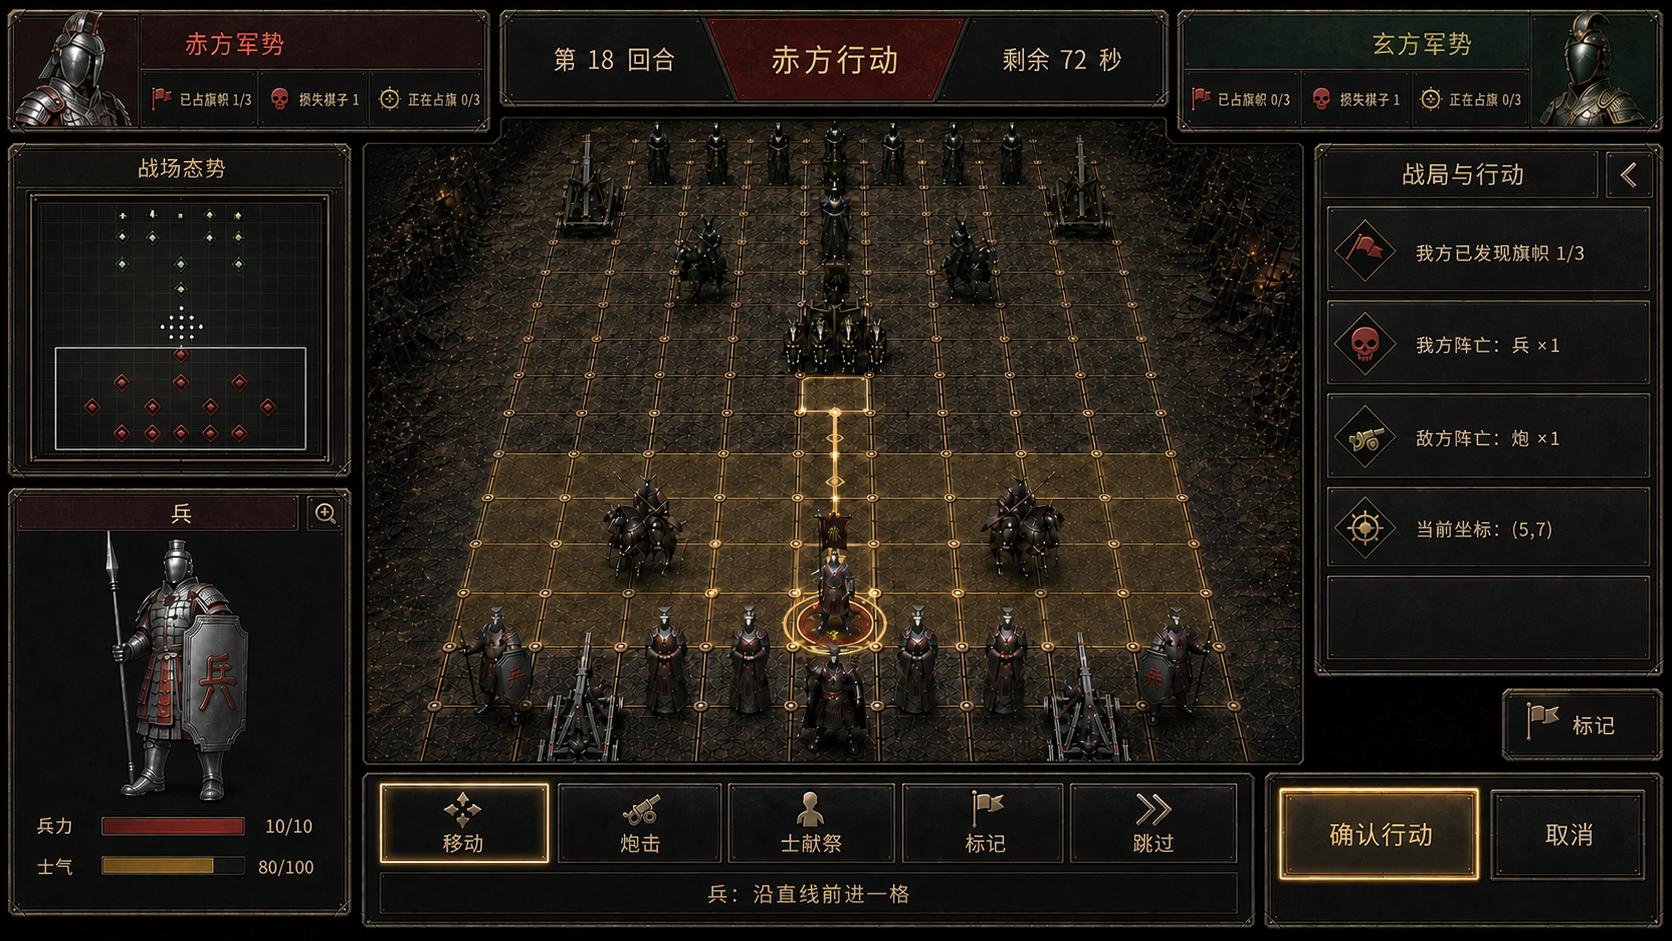
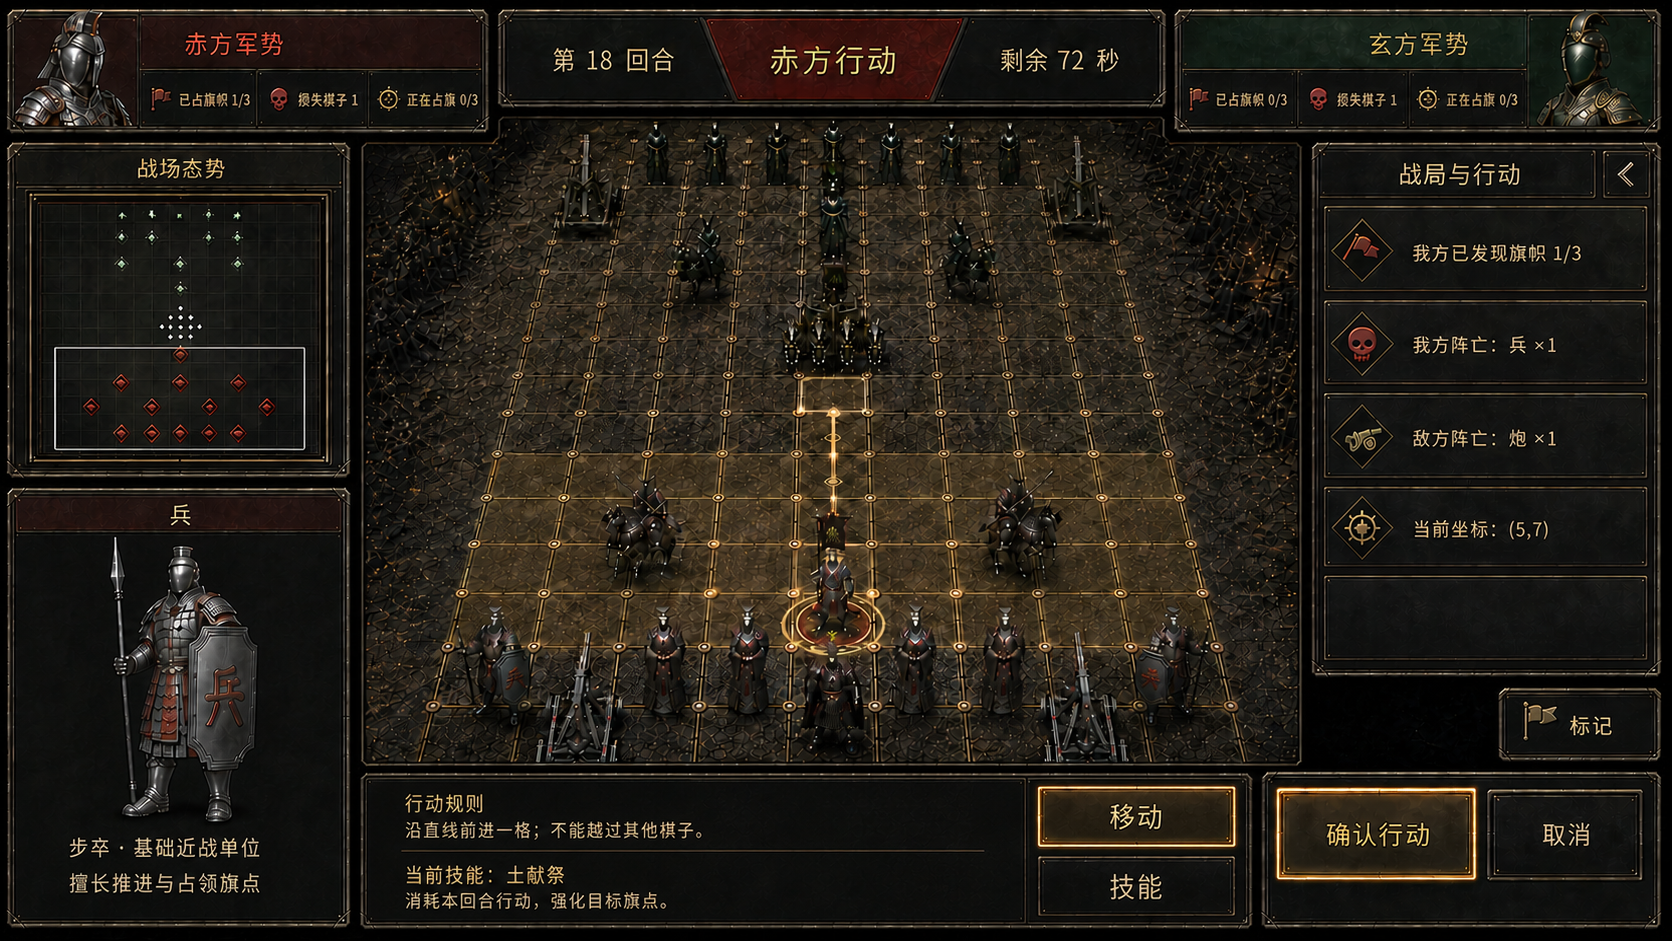
feat: 优化联机对局棋子信息与行动面板

diff --git a/docs/ui/multiplayer-match-hud-ux-reference-v2.md b/docs/ui/multiplayer-match-hud-ux-reference-v2.md
@@ -15,7 +15,9 @@
 - 删除香盘、计时香、回合香、香炉、竖香、灰盘及其所有计时语义。
 - 区域 02 `TurnStatusBar` 是唯一回合／行动方／剩余时间入口。
 - 区域 01 与 03 的头像区下方各显示三项公开信息：`已占旗帜`、`损失棋子`、`正在占旗 0/3`。
+- 区域 05 只显示棋子名称、全身立绘和两行身份／定位简介；不显示兵力、士气、属性条、数值或放大按钮。
 - 区域 07 的第四行显示当前选中棋子的公开坐标，V2 示例为`当前坐标：(5,7)`；第五行保留为空槽。
+- 区域 09 左侧只显示当前棋子的行动规则与技能简述，右侧只保留上下排列的`移动 / 技能`两个模式按钮。
 - 旧版`兵 / 炮 / 旗 / 损`紧凑统计行不再使用。
 - 面板轮廓必须闭合、互不重叠，装饰与阴影不得跨出区域边界，为紫幕拆分保留干净轮廓。
 
@@ -27,21 +29,21 @@
 | 02 回合状态 | `第 18 回合`、`赤方行动`、`剩余 72 秒` |
 | 03 玄方军势 | `已占旗帜 0/3`、`损失棋子 1`、`正在占旗 0/3` |
 | 04 战场态势 | 观察者安全标记、镜头框、纵向小地图 |
-| 05 单位信息 | `兵`、`兵力 10/10`、`士气 80/100` |
+| 05 单位信息 | `兵`、全身立绘、`步卒·基础近战单位 / 擅长推进与占领旗点`；无数值属性与放大按钮 |
 | 06 主棋盘 | 精确感 `9×24` 棋盘、红兵选中、一步路径与合法点 |
 | 07 战局与行动 | 已发现旗帜、双方阵亡三条公开事件、`当前坐标：(5,7)`，另留一个空槽 |
 | 08 标记工具 | 本地私有`标记`入口 |
-| 09 行动模式 | `移动 / 炮击 / 士献祭 / 标记 / 跳过`与单位说明 |
+| 09 行动模式 | 左侧为`行动规则 / 当前技能：土献祭`简述；右侧为上下排列的`移动 / 技能`按钮 |
 | 10 确认区 | 主操作`确认行动`与次操作`取消` |
 
 ## 确认后的紫幕生产计划
 
 本轮未执行以下工作：
 
-1. 分别为军势框、回合栏、小地图框、单位卡、战局抽屉、行动栏、确认区和按钮状态生成纯紫背景源图。
+1. 分别为军势框、回合栏、小地图框、单位卡、战局抽屉、规则／技能说明栏、确认区和按钮状态生成纯紫背景源图。
 2. 将紫幕源图抠成透明 PNG，并检查边缘残紫、孔洞、半透明阴影和连通域碎片。
 3. 面板框制作九宫格；按钮至少产出 Normal / Hover / Pressed / Disabled / Focus 状态。
-4. 头像、图标、面板框、按钮底板分开生产；区域 06 的棋盘继续由正式运行时场景渲染，不作为 HUD 紫幕贴图生成。
+4. 头像、棋子立绘、图标、面板框、按钮底板分开生产；区域 05 不制作属性条或放大按钮，区域 09 只制作`移动 / 技能`两类模式按钮；区域 06 的棋盘继续由正式运行时场景渲染，不作为 HUD 紫幕贴图生成。
 5. 所有动态文字、数值、进度和事件内容继续使用 Godot 预置 `Label / ProgressBar / TextureRect` 组合，不烘焙进面板 PNG。
 
 建议紫幕源统一使用项目既有高饱和纯紫背景规范，并为每个资产留足安全边距；实际色值、抠图阈值和输出目录在效果图获批后再绑定到现有美术脚本与 manifest。
@@ -55,6 +57,7 @@ Input images: Image 1 is the strict ten-region geometry; Image 2 is the visual a
 Primary request: rebuild the full-screen match HUD with Image 1 geometry and Image 2 dark iron / oxidized bronze / terracotta-warrior style.
 Critical removal invariant: remove every incense tray, plate, stick, turn incense, timing incense, burner, vertical incense and ash ornament. Turn and timing information exists only in the top TurnStatusBar.
 Force summaries: under each faction portrait show exactly three public cells: captured flags, lost pieces, and current capture progress 0/3. Remove the old soldier/cannon/flag/loss summary.
-Preserve: round 18, red turn, 72 seconds, observer-safe minimap, selected infantry 10/10 and morale 80/100, three public event rows, current-coordinate row “当前坐标：(5,7)”, five action modes, infantry movement description, confirm and cancel.
+Preserve: round 18, red turn, 72 seconds, observer-safe minimap, selected infantry name/full-body art with a short role introduction and no numeric stats or magnify control, three public event rows, current-coordinate row “当前坐标：(5,7)”, and separate confirm/cancel controls.
+Bottom action panel: left side contains only brief current-piece action rules and skill description; right side contains exactly two vertically stacked mode buttons, “移动” above “技能”.
 Production readiness: all panel silhouettes closed, opaque and confined to their regions; no cross-region shadow or ornament; no purple background in this approval mockup.
 ```

diff --git a/docs/ui/multiplayer-match-hud-region-map-v1.md b/docs/ui/multiplayer-match-hud-region-map-v1.md
@@ -5,7 +5,7 @@
 
 参考图：`assets/art/ui/concepts/multiplayer_match_hud_region_map_v1.png`
 
-当前装配效果图：`assets/art/ui/concepts/multiplayer_match_hud_ux_reference_v2_no_incense.png`。V2 禁用全部香类计时组件，区域 02 是唯一回合／计时入口；区域 01 与 03 各承载三项公开旗帜／损失信息。
+当前装配效果图：`assets/art/ui/concepts/multiplayer_match_hud_ux_reference_v2_no_incense.png`。V2 禁用全部香类计时组件，区域 02 是唯一回合／计时入口；区域 01 与 03 各承载三项公开旗帜／损失信息；区域 05 只显示棋子身份与定位简介；区域 09 改为左侧规则／技能说明、右侧上下两个模式按钮。
 
 ## 目的
 
@@ -19,11 +19,11 @@
 | 02 | `TurnStatusBar` | 回合、行动方、剩余时间、网络提交状态 | `CenterContainer → PanelContainer` |
 | 03 | `BlackForceSummary` | 玄方头像、军势、公开旗／损失摘要 | `PanelContainer → HBoxContainer` |
 | 04 | `TacticalMinimap` | 观察者安全小地图与当前镜头框 | `PanelContainer → AspectRatioContainer` |
-| 05 | `SelectedUnitCard` | 当前选中单位、公开能力与状态；空状态可折叠 | `PanelContainer → VBoxContainer` |
+| 05 | `SelectedUnitCard` | 当前选中单位名称、立绘与简短定位；无兵力／士气／放大操作；空状态可折叠 | `PanelContainer → VBoxContainer` |
 | 06 | `BoardViewport` | 主棋盘、雾、棋子、合法点、路径与输入层 | `AspectRatioContainer → BoardHost` |
 | 07 | `ObjectiveEventsDrawer` | 当前玩家可见的战局目标、公开事件与当前选中坐标，最多五行 | `PanelContainer → VBoxContainer` |
 | 08 | `MarkerTool` | 私有标记入口与局部工具状态 | `PanelContainer → CenterContainer` |
-| 09 | `ActionModeBar` | 行动模式、当前选择和上下文说明 | `PanelContainer → VBoxContainer` |
+| 09 | `ActionModeBar` | 左侧行动规则／技能说明，右侧上下排列的`移动 / 技能`模式按钮 | `PanelContainer → HBoxContainer` |
 | 10 | `ConfirmationActions` | 确认、取消、提交锁和错误恢复入口 | `PanelContainer → HBoxContainer` |
 
 ## 推荐容器骨架

diff --git a/assets/art/ui/concepts/README.md b/assets/art/ui/concepts/README.md
@@ -4,7 +4,7 @@
 
 ## 当前方案
 
-- `multiplayer_match_hud_ux_reference_v2_no_incense.png`：`1672×941` RGB 当前联机对局 HUD 效果图候选。严格使用十区布局；删除香盘、计时香、回合香及全部香炉式 UI，回合和剩余时间只由顶部栏承载；双方头像区下方分别显示`已占旗帜`、`损失棋子`、`正在占旗`三项公开信息；右侧战局板增加当前选中棋子的公开坐标。该图等待项目所有者确认后，才允许进入逐区紫幕生成和透明 PNG 抠图。
+- `multiplayer_match_hud_ux_reference_v2_no_incense.png`：`1672×941` RGB 当前联机对局 HUD 效果图候选。严格使用十区布局；删除香盘、计时香、回合香及全部香炉式 UI，回合和剩余时间只由顶部栏承载；双方头像区下方分别显示`已占旗帜`、`损失棋子`、`正在占旗`三项公开信息；右侧战局板增加当前选中棋子的公开坐标；左下单位卡只保留名称、立绘和定位简介；底部中央改为左侧规则／技能说明与右侧上下两个`移动 / 技能`按钮。该图等待项目所有者确认后，才允许进入逐区紫幕生成和透明 PNG 抠图。
 - `multiplayer_match_hud_region_map_v1.png`：`1672×941` RGB 联机对局 HUD 十区抽象图。将对局效果图去除棋子、战场、图标、纹理和装饰，只保留双方军势、回合条、左侧信息轨、中央棋盘、右侧信息轨与底部交互带，作为 Godot 预置 `Control / Container` 层级拆分依据。
 - `multiplayer_match_hud_ux_reference_v1.png`：`1672×941` RGB 上一版联机对局 HUD 布局参考图，已被 V2 的十区约束、去香盘方向和双方三项公开信息取代，仅保留用于方案演进对照。
 - `level_challenge_hud_ux_reference_v1.png`：`1672×941` RGB 关卡闯关 HUD 布局优化参考图。沿用联机对局的棋盘、军势、单位卡和底部行动骨架，但将右栏改为`关卡目标 → 步骤 → 当前操作 → 提示`的单一任务抽屉，并以 T03“田字封路”的选子、目标点和路径高亮演示即时引导。

diff --git a/docs/ui/match-and-level-gameplay-ux-reference-v1.md b/docs/ui/match-and-level-gameplay-ux-reference-v1.md
@@ -31,7 +31,7 @@
 
 当前参考图：`assets/art/ui/concepts/multiplayer_match_hud_ux_reference_v2_no_incense.png`
 
-V2 已取代联机对局 V1：删除全部香类计时 UI，顶部栏成为唯一回合／计时来源；双方军势区改为`已占旗帜 / 损失棋子 / 正在占旗`三项公开信息。
+V2 已取代联机对局 V1：删除全部香类计时 UI，顶部栏成为唯一回合／计时来源；双方军势区改为`已占旗帜 / 损失棋子 / 正在占旗`三项公开信息；单位卡取消兵力、士气与放大操作，只提供身份定位；底部中央改为左侧规则／技能简述与右侧上下排列的`移动 / 技能`按钮。
 
 ## 关卡闯关差异
 
